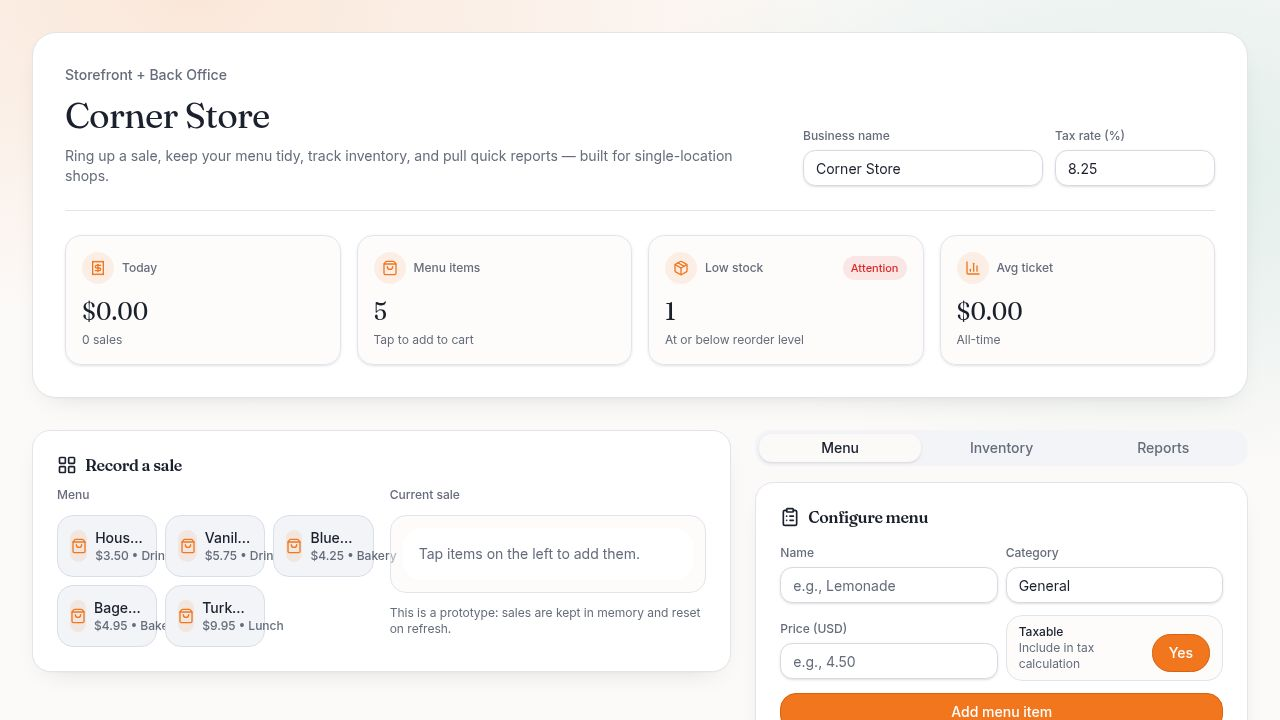
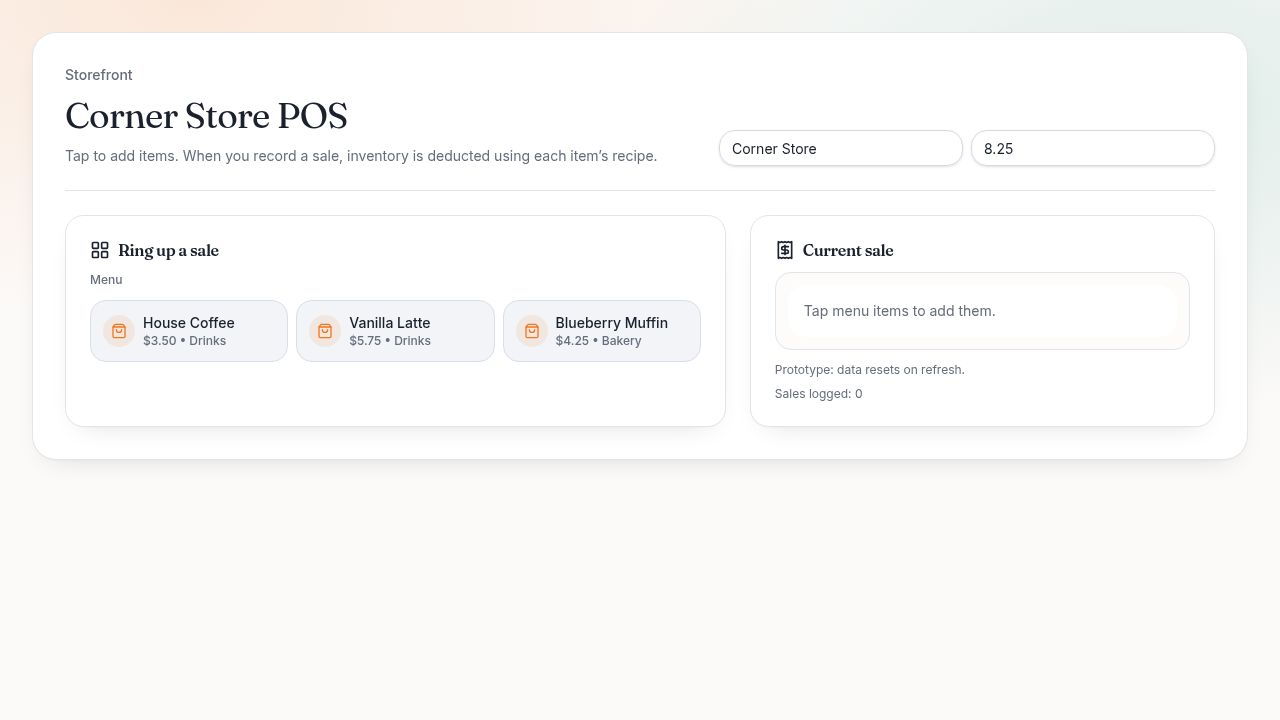
Set POS as the default starting page for the application
Update routing and navigation to make the POS page the default landing experience, and relocate the onboarding flow to a separate route.

Replit-Commit-Author: Agent
Replit-Commit-Session-Id: d11ce735-4a95-4b99-930b-1af3a9b19157
Replit-Commit-Checkpoint-Type: full_checkpoint
Replit-Commit-Event-Id: 628cd057-4423-4d86-97a9-abe148a6228f
Replit-Commit-Screenshot-Url: https://storage.googleapis.com/screenshot-production-us-central1/4710a650-8e96-41ee-a11f-932c0bb5f92b/d11ce735-4a95-4b99-930b-1af3a9b19157/iCMjaaa
Replit-Helium-Checkpoint-Created: true

diff --git a/client/src/components/app-shell.tsx b/client/src/components/app-shell.tsx
@@ -11,8 +11,8 @@ import { cn } from "@/lib/utils";
 import { Button } from "@/components/ui/button";
 
 const nav = [
-  { href: "/", label: "Start", icon: Sparkles, testid: "link-nav-start" },
-  { href: "/pos", label: "POS", icon: LayoutGrid, testid: "link-nav-pos" },
+  { href: "/", label: "POS", icon: LayoutGrid, testid: "link-nav-pos" },
+  { href: "/start", label: "Start", icon: Sparkles, testid: "link-nav-start" },
   { href: "/inventory", label: "Inventory", icon: Package, testid: "link-nav-inventory" },
   { href: "/recipes", label: "Recipes", icon: Soup, testid: "link-nav-recipes" },
   { href: "/menu", label: "Menu", icon: ClipboardList, testid: "link-nav-menu" },

diff --git a/client/src/App.tsx b/client/src/App.tsx
@@ -15,8 +15,8 @@ import ReportsPage from "@/pages/reports";
 function Router() {
   return (
     <Switch>
-      <Route path="/" component={OnboardingPage} />
-      <Route path="/pos" component={PosPage} />
+      <Route path="/" component={PosPage} />
+      <Route path="/start" component={OnboardingPage} />
       <Route path="/inventory" component={InventoryPage} />
       <Route path="/recipes" component={RecipesPage} />
       <Route path="/menu" component={MenuPage} />
